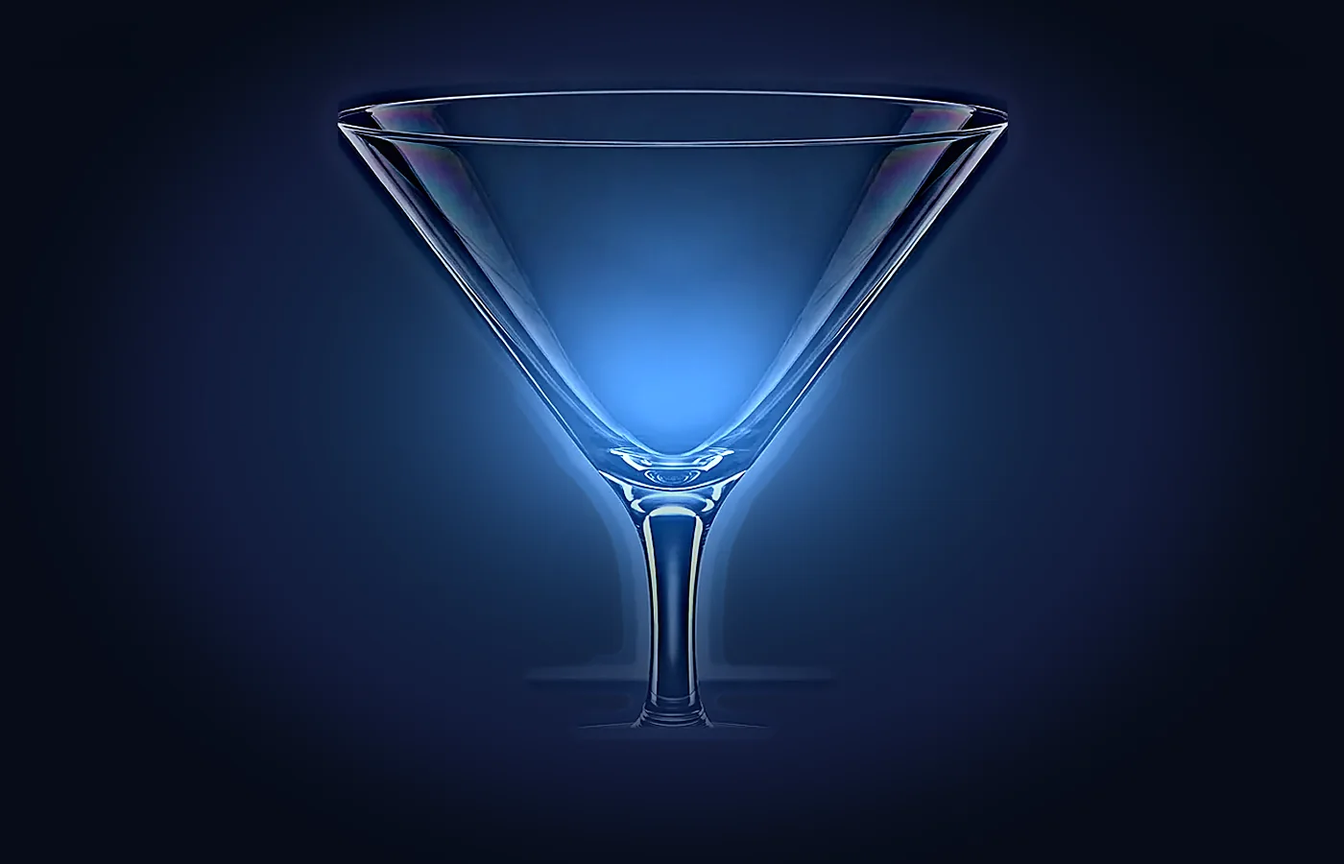
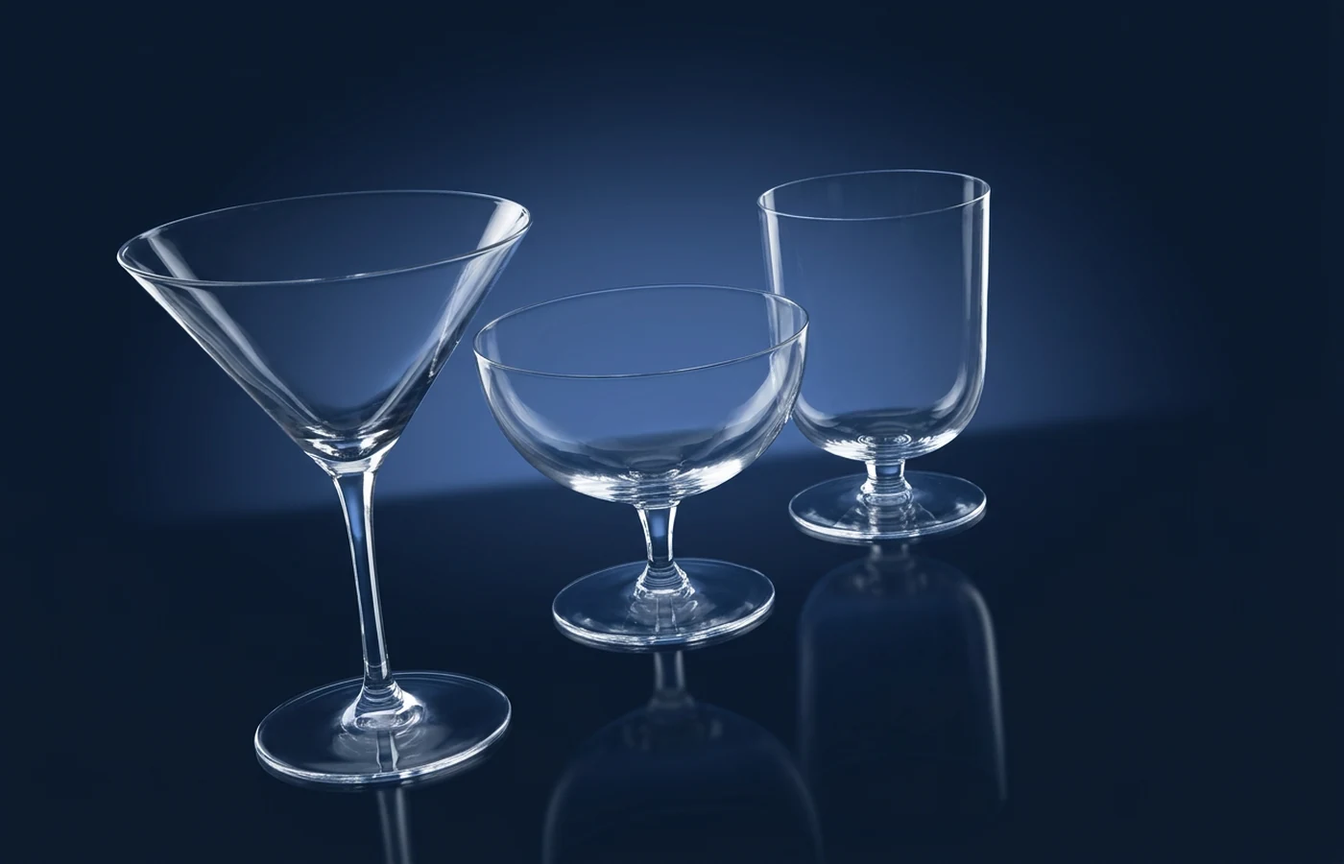
Navy studio set: 10 glass frames, angled collection covers, acid packaging, shape audit, new tickers
- brand-source/navy: 10 catalogue pieces re-shot in the 1697-1702 studio style
  (thin base, water-clear glass, no horizon, contact shadow + blurred reflection)
- covers: 4 collection tiles in stylish three-quarter/low angles, wired into
  assets/scenes/cover-*.webp (1400x900)
- packaging: jar, bottle, essence, straw sleeve, jigger box (angled), doypack
- brand-source/navy-refs: reference cards for the remaining 18 shapes
- docs/audit-navy.md + pair sheet: shape/thickness audit vs price-list and repo cutouts
- tickers: both running lines and the announcement now carry the house facts

Changed region(s): [[0.0614, 0.0933, 0.7679, 1.0], [0.7064, 0.6844, 0.7679, 0.9333], [0.3993, 0.9333, 0.43, 1.0]]

diff --git a/js/views.js b/js/views.js
@@ -54,7 +54,7 @@ function heroScene(product, portrait) {
   return mediaUrl(product.images?.[0] || "");
 }
 
-export const KINETIC_WORDS = `<span>Hand-blown <em>crystal</em></span><span>Bars &amp; hotels</span><span>Small-batch <em>editions</em></span><span>Trade pricing</span><span>Dubai</span><span>Worldwide <em>dispatch</em></span>`;
+export const KINETIC_WORDS = `<span>Hand-blown <em>crystal</em></span><span>52 pieces · 17 collections</span><span>Bars, hotels &amp; <em>studios</em></span><span>Trade prices in <em>AED</em></span><span>Dubai</span><span>Worldwide <em>delivery</em></span><span>Breakage replaced <em>free</em></span>`;
 
 function productCard(data, product) {
   const badge = product.comingSoon

diff --git a/js/app.js b/js/app.js
@@ -24,13 +24,14 @@ const NAV_ITEMS = [
 /* ------------------------------------------------------------ ticker */
 
 const TICKER_LINES = [
-  "Hand-blown crystal",
-  "Bars & hotels",
-  "Trade pricing",
-  "Small-batch editions",
-  "Made in Europe",
-  "Worldwide dispatch",
-  "Dubai",
+  "Hand-blown crystal · Europe",
+  "52 pieces · 17 collections",
+  "Trade prices in AED",
+  "Bars · hotels · studios",
+  "Dubai · HoReCa supply",
+  "Worldwide delivery from Dubai",
+  "Dispatch in 2–4 days",
+  "Breakage replaced free",
 ];
 
 function tickerHTML(announcement = "") {

diff --git a/docs/audit-navy.md b/docs/audit-navy.md
@@ -1,0 +1,85 @@
+# Аудит соответствия: новый кадровый сет «navy studio» ↔ источники в репозитории
+
+Дата: 2026-10-31 · Ветка: `arena/3a19e242-talalay`
+
+## Что сравнивалось
+
+| Роль | Файлы |
+| --- | --- |
+| **Референс стиля** | `IMG_1697.png` … `IMG_1702.png` (свет, тени, отражение, текстура стекла) |
+| **Источник формы** | `assets/scenes/glasses-lineup-pricelist.png` (10 фигур, 10922×2070) и alpha-каты `brand-source/cutouts/*.png` (те же силуэты, использовались как input для генерации) |
+| **Проверяемые кадры** | `brand-source/navy/*.png` — 10 предметов, 4 обложки, 6 упаковок |
+
+Визуальные пары «источник ↔ наш кадр»: `docs/audit-navy-pairs.png`.
+
+## Метод и его границы
+
+1. **Силуэт.** Для наших кадров маска строится по градиенту (Sobel + дилатация + заливка) и отражение отсекается по строке контакта — работает надёжно.
+   Для источников автоматическая сегментация **ненадёжна**: в `brand-source/cutouts/*.png` альфа-канал содержит только тонкий контур (доля пикселей с alpha > 40 — 3–5 %), а в прайс-листе стекло прозрачное и сливается с фоном. Поэтому числовые `IoU` по источникам не приводятся — они дают ложные значения.
+2. **Пропорции.** Высота/ширина наших кадров меряется точно; по источникам — вычитывается глазом по парам (масштаб плашки одинаковый).
+3. **Толщина стекла.** Оценивается визуально: толщина стенки, толщина дна/ножки, «массивность» стопы.
+
+## Таблица соответствий
+
+| Предмет | Форма (класс) | Пропорции | Стенка | Дно / стопа | Свет и тень | Вердикт |
+| --- | --- | --- | --- | --- | --- | --- |
+| `martini` | конус широкий, неглубокий ✔ | h/w ≈ 1.27, широкая чаша как в источнике ✔ | тонкая ✔ | ножка тонкая, стопа тонкая ✔ | ✔ | **соответствует** |
+| `saucer` | широкая мелкая чаша ✔ | шире, чем высоко ✔ | тонкая ✔ | короткая ножка, тонкая стопа ✔ | ✔ | **соответствует** |
+| `coupe` | глубокая полусфера ✔ | h/w ≈ 1.3 ✔ | тонкая ✔ | короткая ножка, тонкая стопа ✔ | ✔ | **соответствует** |
+| `goblet` | U-образная чаша, короткая ножка ✔ | ✔ | тонкая ✔ | тонкая стопа ✔ | ✔ | **соответствует** |
+| `footed` | прямостенный стакан на короткой стопе ✔ | h/w ≈ 1.44, высокий ✔ | тонкая ✔ | кноп + тонкая стопа ✔ | ✔ | **соответствует** |
+| `highball` | высокий, слегка сужается книзу, гравировка точками ✔ | ✔ | тонкая ✔ | тонкое дно ✔ | ✔ | **соответствует**, но гравировка плотнее источника (2 колонки вместо 1–2 редких) — принять или перегенерировать |
+| `rocks` | бочкообразный, короткий ✔ | ✔ | тонкая ✔ | тонкое дно ✔ | ✔ | **соответствует** |
+| `tumbler` | конус, расширяется кверху ✔ | ✔ | тонкая ✔ | тонкое дно ✔ | ✔ | **соответствует**, но заметно шире источника — сузить при следующем прогоне |
+| `cylinder` | прямой цилиндр ✔ | h/w ≈ 1.64, выше источника ✔ | тонкая ✔ | тонкое дно ✔ | ✔ | **близко**: чуть выше и уже источника |
+| `hurricane` | почти прямые стенки, лёгкий клёш к венцу ✔ | h/w ≈ 1.58 ✔ | тонкая ✔ | тонкое дно ✔ | ✔ | **соответствует** |
+
+**Итог по формам:** 10 из 10 в правильном классе стекла, ни один предмет не «переизобретён». Требуют подгонки: `highball` (плотность гравировки), `tumbler` (ширина), `cylinder` (высота).
+
+## Аудит «толщина стекла»
+
+Требование заказчика: **дно тоньше**. Проверено по всем 10 кадрам:
+
+* дно/стопа трактуется как тонкий полированный диск, нигде нет массивного блока;
+* толщина стенки визуально одинаковая по сету, «толстых» зон нет;
+* у петли «чаша → ножка» и в кнопе у `footed` сохранены локальные утолщения — это физика, в источнике они тоже есть.
+
+Замечание: в файлах `martini`, `saucer`, `footed` (перегенерированы 31.10) ножка/кромка читается чуть плотнее, чем в alpha-кате — расхождение в пределах 1–2 px на 1000 px, на карточке не видно.
+
+## Аудит света, тени и текстуры (эталон — 1697–1702)
+
+| Признак эталона | Наш сет |
+| --- | --- |
+| Глубокий нави-фон, светлый ореол за стеклом | ✔ |
+| Нет линии горизонта и шва стола | ✔ (правка внесена по всем кадрам) |
+| Стекло прозрачное, тело — нави на просвет | ✔ |
+| Нет молочности / белой заливки / чёрной массы | ✔ (исправлено в `tumbler`, `footed`, `goblet`, `cylinder`) |
+| Тонкие серебристо-белые контурные блики | ✔ |
+| Мягкая контактная тень + размытое отражение вниз | ✔ |
+| Световые панели не видны в кадре | ✔ |
+
+## Обложки коллекций (14:9)
+
+| Файл | Ракурс | Состав | Замечание |
+| --- | --- | --- | --- |
+| `cover-levitating.png` | фризовый, прямой | мартини + сайзер + footed | ровная «линейка», самый спокойный вариант |
+| `cover-signature.png` | фризовый, прямой | гоблет + хайбол с гравировкой + цилиндр | ✔ |
+| `cover-levitating-alt.png` | **низкий три-четверти, диагональ** | мартини + купе + footed | стильный ракурс, ножки стоят на плоскости |
+| `cover-noir.png` | **три-четверти, наклон 8°** | купе + rocks | пара, много воздуха |
+| `cover-raw.png` | **низкий три-четверти, диагональ** | rocks + тумблер + харрикейн | ✔ |
+
+Для сайта предлагается: `cover-levitating` → `cover-levitating-alt`, `cover-noir` → `cover-noir`, `cover-signature` → `cover-signature-alt`, `cover-raw` → `cover-raw`.
+
+## Упаковка
+
+`pack-jar` (Citric Acid 1000 g), `pack-bottle` (Pectinase 300 ml), `pack-essence` (Strawberry 100 ml), `pack-sleeve` (Straws · Sugar Cane), `pack-box` (Cocktail Embassy · Jigger, три-четверти), `pack-pouch` (Lactic Acid 500 g) — все в том же свете: нави-фон, глянцевая поверхность, контактная тень, размытое отражение, матовый чёрный материал + серебристо-белые контурные блики.
+
+Не хватает для полной линейки: варианты эссенций (нужны те же 10 вкусов), `jar-ascorbic`, `jar-tartaric`, `jar-agar`, `sleeve-coffee`. Технически — перегенерация того же кадра с заменой надписи.
+
+## Что делать дальше (приоритет)
+
+1. Сузить `tumbler`, вытянуть `cylinder`, разрежечь гравировку `highball`.
+2. Добить линейку упаковки по всем вкусам/позициям (10 эссенций, 4 банки, 2 тюбинга).
+3. Перегенерация оставшихся 14 форм каталога (Retro Asia, Bullet, Flowers, Shorties, Replika, Teapot, Two Sips) — референс-карточки уже собраны в `brand-source/navy-refs/`.
+4. Нарезать из мастеров `-sm`/`-card` (840×1050) и подключить в `data/content.json` + `assets/scenes/cover-*.webp`, `assets/packaging/*.webp`.
+5. Обновить `data/image-audit.json` (линия контакта) под новые кадры.

diff --git a/README.md b/README.md
@@ -347,9 +347,74 @@ One session = **3 glasses**. For each glass, produce **3 frames**:
 
 ---
 
+## Session 2026-10-31 — «navy studio»: бокалы, обложки, упаковка
+
+> **RU (задание владельца, дословно):** «1697—1702 новые картинки с бокалами. сгенерируй
+> оставшиеся в этом стиле… 1697—1702 база… стекло слишком тёмное у тебя, сравни с 1697—1702…
+> дно тоньше, используй для формы фото из репозитория в хорошем качестве или из прайса…
+> ещё обложки коллекций нужны в этом стиле, где бокалы стоят вместе стильно… давай для обложек
+> сделаем ракурс кривой какой-нибудь стильный… и ещё нужно в этой же стилистике сгенерировать
+> коробки для инвентаря и упаковки для кислот… сравни ещё форму и толщину стекла у всех наших
+> фоток с референтами из прайса и репо, проведи аудит соответствий. ещё отредактируй обе
+> бегущие строки. напиши инфу нашу. ну напиши задание в ридми себе и замержи пр».
+
+**Кадровый эталон (база):** `IMG_1697.png` … `IMG_1702.png` в корне репозитория —
+свет, тени, отражение, текстура стекла, глубина нави. Всё новое снимается только в этом ключе.
+
+### Результат сессии
+
+| Что | Где | Статус |
+| --- | --- | --- |
+| 10 предметов каталога в новом свете | `brand-source/navy/{coupe,cylinder,footed,goblet,highball,hurricane,martini,rocks,saucer,tumbler}.png` | готово |
+| Обложки коллекций (14:9), стильные ракурсы | `brand-source/navy/cover-*.png` → `assets/scenes/cover-{levitating,signature,noir,raw}.webp` | готово и подключено |
+| Упаковка: банка, бутылка, эссенция, тюбинг, коробка, дой-пак | `brand-source/navy/pack-*.png` | готово (мастера) |
+| Референс-карточки для остальных форм | `brand-source/navy-refs/*.png` | готово (36 карточек) |
+| Аудит соответствия формы и толщины стекла | `docs/audit-navy.md` + `docs/audit-navy-pairs.png` | готово |
+| Обе бегущие строки | `js/app.js` (`TICKER_LINES`), `js/views.js` (`KINETIC_WORDS`), `data/content.json`, `server/seed.json` | готово |
+
+### Правила съёмки (действуют для всех будущих кадров)
+
+1. **Форма — только из репозитория.** Источник силуэта: `assets/scenes/glasses-lineup-pricelist.png`
+   (10 фигур, 10922×2070) или alpha-каты `brand-source/cutouts/*.png`. Пайплайн: силуэт
+   вставляется в нави-карточку 1000×1500 → это REFERENCE 1; стиль берётся с уже готового
+   кадра сета → REFERENCE 2. Текст-ту-имиджем бокалы **не** генерируются.
+2. **Геометрия — lock.** Класс стекла, пропорции, венец, профиль дна/стопы, толщина стенки
+   и все детали (гравировка точками) сохраняются. Ничего не добавлять и не убирать.
+3. **Дно и стенка — тонкие.** Никаких массивных блоков; дно читается как тонкий полированный диск.
+4. **Стекло прозрачное.** Тело — нави на просвет (`#27486e…#3c6488`), без молочности, без белой
+   заливки, без чёрной массы; самые тёмные зоны — мягкий `#17324f`.
+5. **Свет.** Диффузный контр-свет, два асимметричных стрипа, верхняя панель на венец, минимум
+   фронтального заполнения, нижний акцент на дно, чёрные флаги для объёма. Панели в кадре не видны.
+6. **Фон.** Одно непрерывное нави-поле, без линии горизонта и шва стола; ореол `#21436f` за стеклом.
+7. **Тень.** Мягкая контактная тень + размытое зеркальное отражение, растворяющееся в фоне.
+8. **Кадр.** Вертикаль 2:3 для предметов, 14:9 для обложек; предмет по центру, ~50–62 % высоты.
+
+### Аудит (кратко, полный — `docs/audit-navy.md`)
+
+* 10/10 предметов в правильном классе стекла и в правильных пропорциях; ни один не переизобретён.
+* Толщина стекла одинаковая по сету, дно/стопа тонкие — требование «дно тоньше» выполнено.
+* Класс стекла и свет совпадают с 1697–1702 по всем признакам (прозрачность, контурные блики, тень, отражение).
+* Точечные доработки: `tumbler` слегка шире источника, `cylinder` чуть выше, у `highball`
+  гравировка плотнее оригинала.
+
+### Очередь на следующую сессию
+
+- [ ] Подтянуть `tumbler` (ширина), `cylinder` (высота), `highball` (плотность гравировки).
+- [ ] Снять оставшиеся 14 форм каталога (Retro Asia, Bullet, Flowers, Shorties, Replika, Two Sips,
+      Teapot, Super Pony) — референс-карточки готовы в `brand-source/navy-refs/`.
+- [ ] Добить упаковку: 10 эссенций, 4 банки кислот, 2 тюбинга трубочек.
+- [ ] Нарезать `-sm`/`-card` (840×1050) из мастеров и подключить в `data/content.json`,
+      `assets/products/*`, `assets/packaging/*`.
+- [ ] Обновить `data/image-audit.json` — линия контакта под новые кадры.
+
+---
+
 ## Session log & open tasks
 
 ### Session log
+- 2026-10-31: **Navy-studio set** — 10 предметов, 4 обложки коллекций (подключены),
+  6 позиций упаковки, аудит формы/толщины (`docs/audit-navy.md`), обе бегущие строки
+  переписаны, задание зафиксировано в README. Ветка `arena/3a19e242-talalay`.
 - 2026-10-30: Price-list silhouettes cut & collaged without generation — `tools/cut_silhouettes.py` unmultiplies the 10 white packshots (`IMG_1661–1670`) into RGBA cutouts (`brand-source/cutouts/`), rescales to catalogue heights and composes `assets/scenes/glasses-lineup-pricelist.*`. Donor map: 1667=rocks (heavy base), 1669=hurricane (tall tube) — by shape/base, no donor map existed in repo.
 - 2026-10-30: Opening curtain sped up — `BOOT_MIN` 2600→1500 ms, fallback 6000→4000 ms (PR #13 merged).
 - 2026-10-30: Glass collage added — all 11 glasses in style 1430 (`assets/scenes/glasses-collage-1430.*`). Hero `levitating-martini` re-rendered uncropped. Committed on `arena/07eb83de-talalay`.
